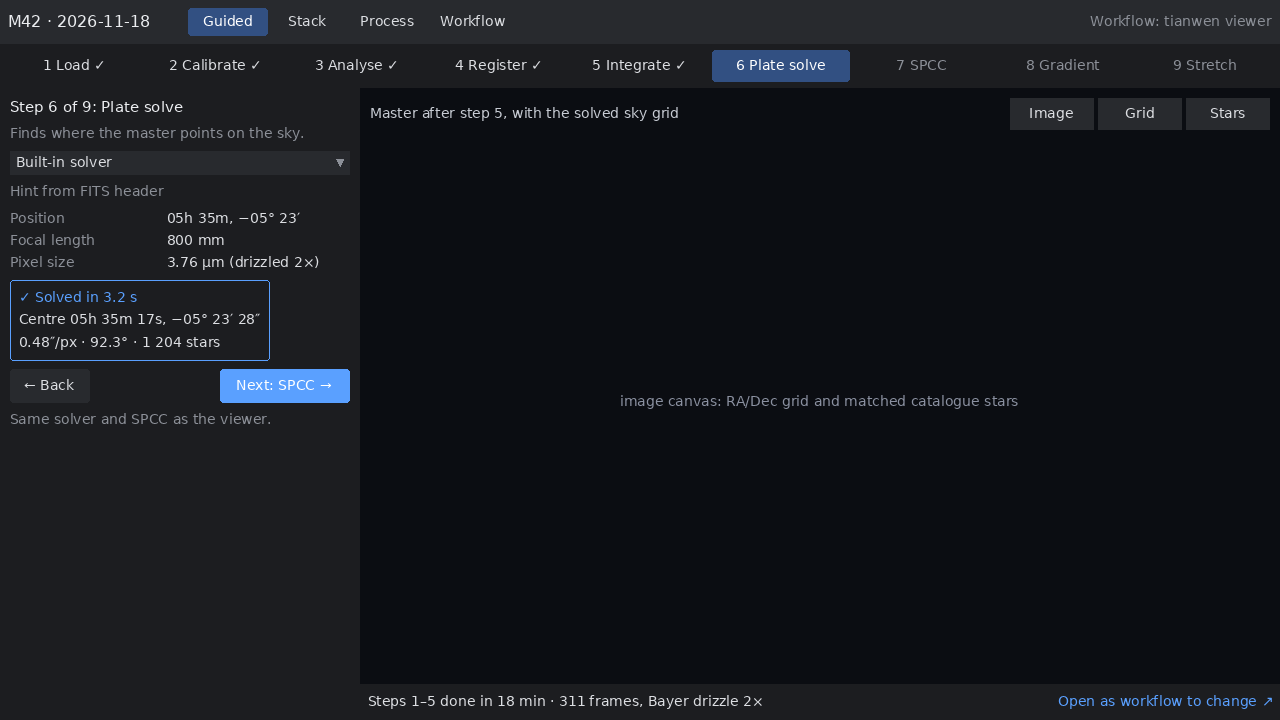
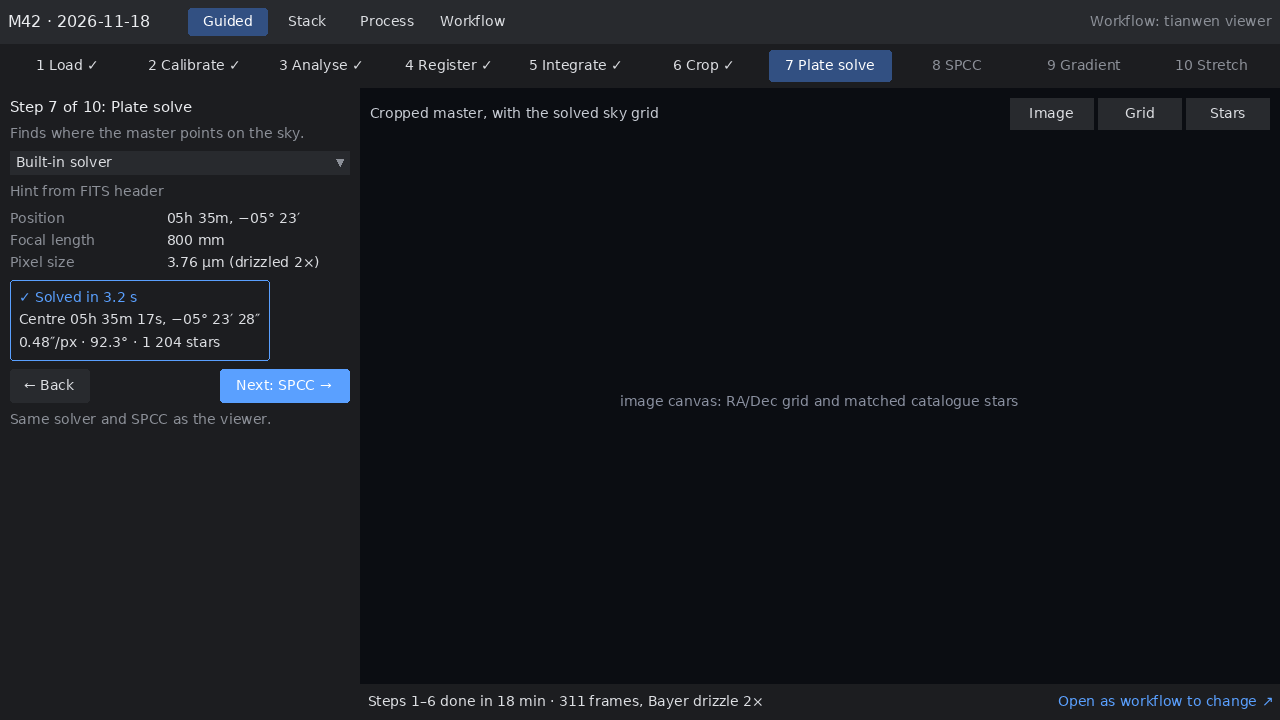
Add Crop (auto stacking edges, Guided step 6) and an optional Windows (MDI) mode in Process

diff --git a/DESIGN.md b/DESIGN.md
@@ -4,13 +4,13 @@
 
 ## Guided
 
-**Objective:** Shows the pre-built "tianwen viewer" workflow one step at a time, like Astro Pixel Processor: load, calibrate, analyse, register, integrate, plate solve, SPCC, gradient, stretch.
+**Objective:** Shows the pre-built "tianwen viewer" workflow one step at a time, like Astro Pixel Processor: load, calibrate, analyse, register, integrate, crop, plate solve, SPCC, gradient, stretch.
 
 ```screen id=guided
-Step 6 of 9: plate solve the master
+Step 7 of 10: plate solve the cropped master
 ```
 
-**Notes:** The step bar is the workflow itself, laid out flat: done steps carry ✓, the current one is selected, later ones are dim, so the state is in words and marks, not colour alone. Each step has one panel (what it does, its few settings, its result) and Back / Next; the canvas shows that step's output (here the solved sky grid). Plate solve and SPCC use the same code as the tianwen viewer so a master looks the same in both. "Open as workflow" leads to the Workflow editor, where gates and extra steps live: Guided is the easy road, Workflow and Process the flexible ones.
+**Notes:** The step bar is the workflow itself, laid out flat: done steps carry ✓, the current one is selected, later ones are dim, so the state is in words and marks, not colour alone. Each step has one panel (what it does, its few settings, its result) and Back / Next; the canvas shows that step's output (here the solved sky grid). Plate solve and SPCC use the same code as the tianwen viewer so a master looks the same in both. "Open as workflow" leads to the Workflow editor, where gates and extra steps live: Guided is the easy road, Workflow and Process the flexible ones. Guided is always one image (SDI); it has no Windows switch. Crop sits before plate solving so the solve and SPCC never see the ragged stacking edges.
 
 ## Stack
 
@@ -30,7 +30,27 @@ Stack workspace: frames, pipeline, preview
 Process workspace: hyperbolic stretch on the master
 ```
 
-**Notes:** One process open at a time, docked, instead of PixInsight's floating windows. History is a plain list; clicking a step would roll the preview back to it.
+**Notes:** One process open at a time, docked, instead of PixInsight's floating windows. History is a plain list; clicking a step would roll the preview back to it. The header's One image / Windows switch picks SDI or MDI; One image is the default.
+
+## Crop
+
+**Objective:** Shows cropping the master: cut off the stacking edges automatically, or set the sides, aspect ratio and north-up rotation by hand, with the frame drawn on the whole image.
+
+```screen id=crop
+Process: Crop, auto-cropping the stacking edges
+```
+
+**Notes:** Auto-crop uses the integration's cover map (where fewer than 90 % of frames overlap), so it is exact rather than guessed from the pixels; "Cover map" in the canvas toolbar shows it. The side fields show the auto values and can be overwritten; dragging the frame does the same. North-up needs a plate solve and says so. Crop is also step 6 of Guided and a step a workflow can hold.
+
+## Windows (MDI)
+
+**Objective:** Shows the optional MDI mode: several images (master, starless, stars, a mask) open side by side as windows, with the process applying to the active one.
+
+```screen id=mdi
+Process in Windows mode: pixel math across four windows
+```
+
+**Notes:** MDI earns its keep where a process needs more than one image: pixel math, masks, channel combine. Windows tile by default (Cascade and Tabs on offer) so nothing hides another; zoom and pan can be linked. The active window has a thick blue outline and is named in the panel and the status line, so it is not shown by colour alone. The switch lives in the Process header and is remembered; Stack and Guided stay single-image.
 
 ## Workflow
 
